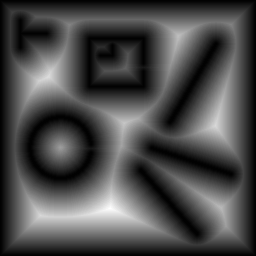
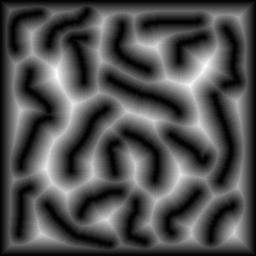
Update

diff --git a/miniquad/src/map.rs b/miniquad/src/map.rs
@@ -7,7 +7,7 @@ pub struct GameMap {
     pub wall_array: [[u8; settings::MAPSIZE]; settings::MAPSIZE],
     pub floor_array: [[u8; settings::MAPSIZE]; settings::MAPSIZE],
     pub dist_field: [[u8; settings::MAPSIZE]; settings::MAPSIZE],
-    pub dmax: usize,
+    pub dmax: u8,
     pub wall_visible: [[bool; settings::MAPSIZE]; settings::MAPSIZE],
     pub floor_visible: [[bool; settings::MAPSIZE]; settings::MAPSIZE],
     pub wall_dist: [[usize; settings::MAPSIZE]; settings::MAPSIZE],
@@ -26,16 +26,16 @@ impl GameMap {
                     image::ImageBuffer::get_pixel(&ass.wall_image, i as u32, j as u32).to_rgba();
                 let pixel2 =
                     image::ImageBuffer::get_pixel(&ass.floor_image, i as u32, j as u32).to_rgba();
-                let pixel3 =
-                    image::ImageBuffer::get_pixel(&ass.dist_image, i as u32, j as u32).to_rgba();
+                 let pixel3 =
+                     image::ImageBuffer::get_pixel(&ass.dist_image, i as u32, j as u32).to_rgba();
                 wall_array[i][settings::MAPSIZE - j - 1] = pixel1[0];
                 floor_array[i][settings::MAPSIZE - j - 1] = pixel2[0];
                 dist_field[i][settings::MAPSIZE - j - 1] = pixel3[0];
             }
         }
 
-        
         let dmax = 255;
+        //let mut dmax: u8 = 0;
 
         // for i in 0..settings::MAPSIZE {
         //     for j in 0..settings::MAPSIZE {
@@ -45,18 +45,18 @@ impl GameMap {
         //                     if (i - k) * (i - k) + (j - l) * (j - l) <= ((d * d) as f32 * 0.25) as usize
         //                         && wall_array[k][l] < 255
         //                     {
-        //                         dist_field[i][j] = d;
-        //                         if d > dmax {
-        //                             dmax = d
+        //                         dist_field[i][j] = d as u8;
+        //                         if d as u8 > dmax {
+        //                             dmax = d as u8
         //                         }
         //                         break;
         //                     }
         //                 }
-        //                 if dist_field[i][j] == d {
+        //                 if dist_field[i][j] == d as u8 {
         //                     break;
         //                 }
         //             }
-        //             if dist_field[i][j] == d {
+        //             if dist_field[i][j] == d as u8 {
         //                 break;
         //             }
         //         }

diff --git a/miniquad/src/main.rs b/miniquad/src/main.rs
@@ -89,11 +89,13 @@ async fn main() {
             }
         }
 
-        for tile in depth_buffer.visible_tiles.clone() {
+        for tile in depth_buffer.visible_tiles {
             if tile[3] == 1 {
                 floor_face_draw(&player, &game_map, tile[1], tile[2])
             } else if tile[3] == 2 {
-                wall_face_draw(&player, &game_map, &depth_buffer, tile[1], tile[2])
+                wall_face_draw(&player, &game_map, depth_buffer.dmax, tile[1], tile[2], 0);
+                wall_face_draw(&player, &game_map, depth_buffer.dmax, tile[1], tile[2], 1);
+                wall_face_draw(&player, &game_map, depth_buffer.dmax, tile[1], tile[2], 2);
             }
             
         }
@@ -231,10 +233,10 @@ fn project_point(player: &player::Player, wall_x: f32, wall_y: f32, wall_z: f32)
     }
 }
 
-fn wall_face_draw(player: &player::Player, game_map: &map::GameMap, depth_buffer: &camera::DepthBuffer, i: usize, j: usize) {
+fn wall_face_draw(player: &player::Player, game_map: &map::GameMap, dmax: usize, i: usize, j: usize, k: usize) {
     let tile_x = i as f32 + 0.5;
     let tile_y = j as f32 + 0.5;
-    let tile_z = 0.5;
+    let tile_z = k as f32 + 0.5;
 
     let proj000 = project_point(player, tile_x - 0.5, tile_y - 0.5, tile_z - 0.5);
     let proj001 = project_point(player, tile_x - 0.5, tile_y - 0.5, tile_z + 0.5);
@@ -250,7 +252,7 @@ fn wall_face_draw(player: &player::Player, game_map: &map::GameMap, depth_buffer
     let vis3 = proj010.visible || proj011.visible || proj111.visible || proj110.visible;
     let vis4 = proj110.visible || proj111.visible || proj101.visible || proj100.visible;
     
-    let val = 255 - (255.0 * (game_map.wall_dist[i][j] as f32) / (depth_buffer.dmax as f32)) as u8;
+    let val = 255 - (255.0 * (game_map.wall_dist[i][j] as f32) / (dmax as f32)) as u8;
 
     let d1 = proj000.d + proj001.d + proj101.d + proj100.d;
     let d2 = proj000.d + proj001.d + proj011.d + proj010.d;

diff --git a/miniquad/src/settings.rs b/miniquad/src/settings.rs
@@ -12,7 +12,7 @@ pub const PLAYERX0: f32 = 4.5;
 pub const PLAYERY0: f32 = 4.5;
 pub const PLAYERA0: f32 = 0.75;
 pub const PLAYERB0: f32 = 0.0;
-pub const FOVXY: f32 = 1.5;
+pub const FOVXY: f32 = PI/3.0;
 pub const FOVZ: f32 = HEIGHT as f32 / WIDTH as f32 * FOVXY;
 pub const DELTATIME: f32 = 1.0/60.0;
 pub const PLAYERSPEED: f32 = 0.2;
